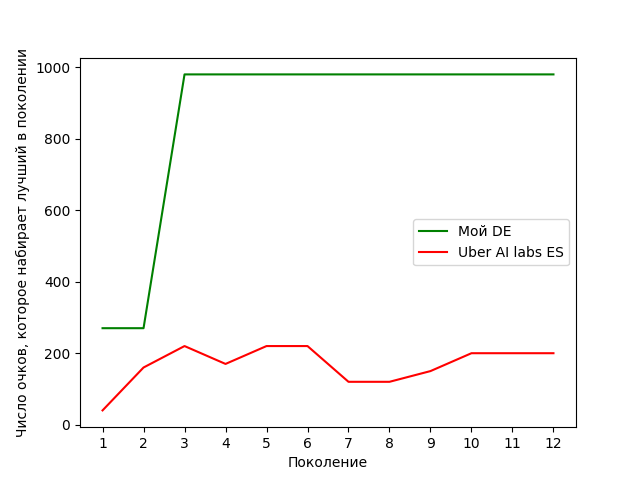
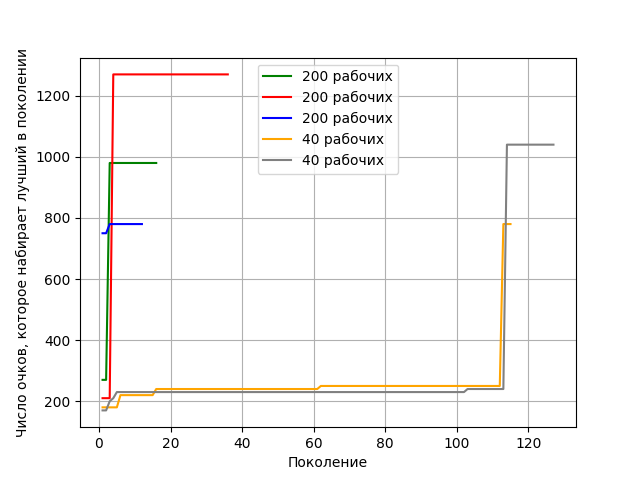
.

diff --git a/report/report.tex b/report/report.tex
@@ -12,11 +12,11 @@
 \usepackage{float}
 
 % \newcommand{\high}[1]{\texttt{#1}}
-\newcommand{\img}[2]{
+\newcommand{\img}[3]{
     \begin{figure}[H]
         \centering
-        \includegraphics[width=0.8\textwidth]{#1}
-        \caption{#2}
+        \includegraphics[width=#2\textwidth]{#1}
+        \caption{#3}
     \end{figure}
 }
 % \usepackage[fencedCode,inlineFootnotes,citations,definitionLists,hashEnumerators,smartEllipses,hybrid]{markdown}
@@ -69,38 +69,43 @@
     
     Цель настоящей работы исследовать потенциал алгоритма дифференциальной эволюции для процесса обучения нейронных сетей. 
 
-\section{Обзор других работ}
+\section{Обзор существующих работ}
     В этом разделе приведем обзор других работ, которые ведутся в данном направлении. В частности можно взглянуть на работу Uber AI labs \cite{uber}, на основе кодовой базы которой выполнена текущая работа. \\
 
-    В своей работе Uber AI labs исследует потенциал обучения нейронной сети, которая учиться играть в Atari Frostbite и пытается обучить 3-х мерную модель гуманоида ходить. Обучают они нейронную сеть с помощью различных эволюционных алгоритмов, таких как генетический 
+    В своей работе Uber AI labs исследует потенциал обучения нейронной сети, которая учиться играть в Atari Frostbite и также пытается обучить 3-х мерную модель гуманоида ходить. Для процесса обучения нейронной сети используются различные эволюционные алгоритмы. Результатом своей работы Uber AI labs представила реализацию 4-х различных эволюционных алгоритмов для решения описанных задач. Забегая вперед, скажем, что нам удастся получить результат лучше, чем у двух алгоритмов представленных в \cite{uber}. \\
+
+    В другой существующей работе \cite{de-for-cnn-design} рассматривается возможность построения сверточных нейронных сетей с помощью алгоритма дифференциальной эволюции. Авторы ставят перед собой цель исследовать потенциал алгоритма дифференциальной эволюции для автоматического построения и улучшения структуры и параметров глубоких сверточных сетей. Результатом этой работы стал гибридный алгоритм дифференциальной эволюции, который позволяет решить поставленную задачу.
 
 \section{Постановка задачи}
     Постановка задачи формулируется следующим образом: разработать алгоритм дифференциальной эволюции и попробовать обучить нейронную сеть, так чтобы она набирала как можно большее количество очков в игре Atari Frostbite.
 
     \subsection{Правила игры Atari Frostbite}
-    Нижнии $2/3$ экрана заполнены водой с четыремя рядами ледяных глыб плывущих в горизонтальном направлении. Игрок делает свои ходы прыгая с одного ряда на другой, пытаясь избежать различных противников в виде крабов и птиц. Также есть рыбы, которые дают дополнительные очки. \\
+    Нижнии $2/3$ экрана заполнены водой с четырьмя рядами ледяных глыб плывущих в горизонтальном направлении. Игрок делает свои ходы прыгая с одного ряда на другой, пытаясь избежать различных противников в виде крабов и птиц. Если игрок упадет в воду или встретит противника, то потеряет одну единицу жизни. Всего игроку изначально дается 4 единицы жизни. По достижении счетчиком жизни нуля игра считается проигранной и начинается заново.  \\
 
-    В верхней части экрана находится побережье, где игрок должен построить иглу. Каждый раз, когда игрок прыгает на глыбу, ряд, в котором находится глыба, меняет цвет с белого на голубой и иглу строится на $+1$ ледяной блок. После того, как игрок пропрыгал все ряды глыб на экране (напоминаем у нас всего 4 ряда ледяных глыб), то все глыбы обратно меняют цвет с голубого на белый и игрок может начать заново прыгать по глыбам. \\
+    В верхней части экрана находится побережье, где игрок должен построить иглу. Каждый раз, когда игрок прыгает на глыбу, ряд, в котором находится глыба, меняет цвет с белого на голубой и иглу строится на $+1$ ледяной блок. После того, как игрок пропрыгал все ряды глыб на экране (напоминаем в игре всего 4 ряда ледяных глыб), то все глыбы обратно меняют цвет с голубого на белый и игрок может начать заново прыгать по ним. \\
 
-    После того, как все 15 ледяных блоков, необходимых для построения иглу, собраны, игрок должен вернуться обратно на побережье и войти в иглу, это переведет игрока на следующий уровень. На каждом уровне враги и ледяные блоки двигаются быстрее чем на предыдущем уровне, тем самым усложняя игру. \\
+    После того, как все 15 ледяных блоков, необходимых для построения иглу, собраны, игрок должен вернуться обратно на побережье и войти в иглу, это позволит игроку перейти на следующий уровень. На каждом уровне враги и ледяные блоки двигаются быстрее чем на предыдущем уровне, тем самым усложняя игру. \\
 
-    Каждый из уровней обязан быть закончен не более чем за $45$ секунд, иначе игрок умирает от холода. Чем быстрее закончен уровень, тем больше дополнительных очков начисляется игроку.
+    Каждый из уровней обязан быть закончен не более чем за $45$ секунд, иначе теряет одну единицу жизни. Чем быстрее закончен уровень, тем больше дополнительных очков начисляется игроку. \\
+
+    Цель игры: набрать как можно большее количество очков до того, как персонаж умрет.
 
 \section{Метод решения задачи}
-    В качестве метода решения выбран алгоритм дифференциальной эволюции. Этот алгоритм принадлежит к классу стахостических алгоритмов минимизации произвольной функции, не требующий знания градиента этой функции, что делает этот алгоритм очень удобным для применения в ряде задач.
+    В качестве метода решения выбран алгоритм дифференциальной эволюции. Этот алгоритм принадлежит к классу стохастических алгоритмов минимизации произвольной функции, не требующий знания градиента этой функции, что делает этот алгоритм очень удобным для применения в ряде задач.
 
     \subsection{Алгоритм дифференциальной эволюции}
         Алгоритм дифференциальной эволюции был разработан Рэйнером Сторном и Кеннетом Прайсом, впервые опубликован ими в 1995 году \cite{DE-1995}. Из интересного также можно отметить, что этому алгоритму удалось занять 3-е место в <<First International Contest on Evolutionary Computation>> (1stICEO), который проходил в Нагое, мае 1996 \cite{DE}. \\
 
         Формально, пусть имеем $f: \mathbb{R}^{n} \to \mathbb{R}$ - функция, которую требуется минимизировать (заметим, что максимизация может быть выполнена рассмотрением функции $h = -f$). Градиент $f$ не извесен. Цель: найти решение $m$, для которого $f(m) \leq f(p)$ для любого $p$ в области определения, что означает, что $m$ является глобальным минимумом. \\
 
-        У алгоритма дифференциальной эволюции есть два настраиваемых параметра: \\ 
-        $P \in [0, 1]$ - <<вероятность скрещевания>> \\
+        Популяцией будем называть некоторое конечное множество $M=\{~x~|~x \in \mathbb{R}^n~\}$. \\
+
+        У алгоритма дифференциальной эволюции есть три настраиваемых параметра: \\ 
+        $P \in [0, 1]$ - <<вероятность скрещивания>> \\
         $F \in [0, 2]$ - некоторый весовой коэффициент \\
+        $|M|$ - число элементов в популяции \\
 
-        Популяцией будем называть некоторое конечное множество $\{~x~|~x \in \mathbb{R}^n~\}$. \\
-
-        Пусть $x \in \mathbb{R}^n$ один из кандидатов на решение в популяции. Тогда алгоритм дифференциальной эволюции будет выглядеть следующим образом \cite{params-for-de}:
+        Пусть $x \in \mathbb{R}^n$ один из кандидатов на решение в популяции. Тогда алгоритм дифференциальной эволюции будет выглядеть следующим образом:
 
         \begin{itemize}
             \item[-] Проинициализировать все $x$ случайными значениями в области поиска минимума $f$
@@ -132,13 +137,13 @@
             Такая архитектура была выбрана основываясь на \cite{uber}.
 
     \subsection{Как происходит обучение и взаимодействие алгоритма дифференциальной эволюции с нейронной сетью}
-        Так как в алгоритме дифференциальной эволюции в общем случае идет минимизация некоторой функции $f(x)$, где $x \in \mathbb{R}^n$, то надо надо выбрать функцию $f$ и установить биективное отображение между весами нейронной сети и простанством $\mathbb{R}^n$. \\
+        Так как в алгоритме дифференциальной эволюции в общем случае идет минимизация некоторой функции $f(x)$, где $x \in \mathbb{R}^n$, то надо надо выбрать функцию $f$ и установить биективное отображение между весами нейронной сети и пространством $\mathbb{R}^n$. \\
 
-        В качестве функции $f$ выбрана функция равная количеству очков, которое набирает нейронная сеть в игре Atari Frostbite за фиксированое время (если в течении этого времени нейроная сеть успела проиграть, то считаем то количество очков, которое она успела набрать до проигрыша). В нашем случае это число равно $5000$ итераций взаимодействия с библиотекой gym (именно эта библиотека используется для эмуляции игры Atari Frostbite). Это число выбрано таким образом, чтобы быть достаточно большим, чтобы количество очков, которое можно набрать не ограничевалось сверху временем, но и не таким большим, чтобы вычисление $f$ занимало слишком много времени. \\
+        В качестве функции $f$ выбрана функция равная количеству очков, которое набирает нейронная сеть в игре Atari Frostbite за фиксированное время (если в течении этого времени нейронная сеть успела проиграть, то считаем то количество очков, которое она успела набрать до проигрыша). В нашем случае это число равно $5000$ итераций взаимодействия с библиотекой gym (именно эта библиотека используется для эмуляции игры Atari Frostbite). Это число выбрано таким образом, чтобы быть достаточно большим, чтобы количество очков, которое можно набрать не ограничивалось сверху временем, но и не таким большим, чтобы вычисление $f$ занимало слишком много времени. \\
 
-        Таким образом, осталось только установить биективное соответствие между $\mathbb{R}^n$ и весами нейронной сети. Это делается тривиальным образом, просто методом упорядовачивания весов нейроной сети. Сеть имеет $n=1009058$ параметров для обучения. \\
+        Таким образом, осталось только установить биективное соответствие между $\mathbb{R}^n$ и весами нейронной сети. Это делается тривиальным образом, просто методом упорядочивания весов нейронной сети. Сеть имеет $n=1009058$ параметров для обучения. \\
 
-        В качестве значений параметров $P$, $F$ алгоритма дифференциальной эволюции были выбраны $0.9$ и $0.5$ соответственно.
+        В качестве значений параметров $P$, $F$ алгоритма дифференциальной эволюции были выбраны $0.9$ и $0.5$ соответственно. Размер популяции варьировался в разных экспериментах
 
 \section{Вычислительный эксперимент предложенного алгоритма}
     Вычислительный эксперимент проводился на платформе \href{https://cloud.google.com/}{Google Cloud}. На следующих характеристиках: \\
@@ -149,10 +154,17 @@
     Частота: 2 Ггц \\
     ОЗУ: 90 ГБ \\
 
-    Все результаты вычислительного эксперимента алгоритма дифференциальной эволюции (DE) ниже приведины в сравнении с алгоритмом~ES из работы Uber AI labs \cite{uber}.
-    \img{score_plot.png}{Зависимость количества набираемых очков от поколения}
+    После небольшого размышления стало понятно, что нейронная сеть сможет достаточно хорошо обучиться прыгать по глыбам, избегая противников и не падая в воду. Интерес представляло то, <<догадается>> ли нейронная сеть зайти в иглу, чтобы перейти на следующий уровень или она продолжит прыгать по глыбам. Но так как каждый раунд в игре не может длится более $45$ секунд, то это должно было стимулировать нейронную сеть <<обучиться>> заходить в иглу. \\
 
-    \img{time_plot.png}{Зависимость времени обучения от поколения}
+    Понять <<обучилась>> ли нейронная сеть заходить в иглу по количеству набранных ею очков довольно просто. Если число очков больше $540$, то это значит, что сети удалось <<зайти>> в иглу. Это связано с тем, что такое количество очков нельзя набрать просто прыгая по глыбам, $45$ успеют истечь раньше, а за заход в иглу как раз дается ровно $540$ очков. \\
+
+    Сначала вычислительный эксперимент проводился для количества рабочих равному $200$. Из трех вычислительных экспериментов нейронной сети удавалось найти решение, в котором она <<обучалась>> заходить в иглу, в одном из трех первых поколений популяции. Была выдвинута гипотеза, что во всех этих трех экспериментах нам просто повезло. Так как рабочих $200$ и один из них могу случайным образом попасть в правильное решение еще на самом старте обучения. \\
+
+    Таким образом после этого были проведены два эксперимента с $40$ рабочими, чтобы снизить вероятность случайного попадания в <<правильное>> решение с самых первых поколений. В этих двух экспериментах нейронная сеть, действительно, <<попала>> в правильное решение не сразу, и лишь по прошествию порядка 150 поколений нейронная сеть <<догадалась>> зайти в иглу. \\
+
+    \img{score_plot.png}{1.0}{Зависимость количества набираемых очков от поколения в 5-ти различных экспериментах}
+
+    \img{score_plot_per_time.png}{1.0}{Зависимость количества набираемых очков от времени в минутах в 5-ти различных экспериментах}
 
     Видео того, как работает обученная нейронная сеть, можно найти по адресу: \\
     \url{https://www.youtube.com/watch?v=VjWcr3XTsHU&feature=youtu.be}
@@ -166,9 +178,9 @@
 
     Основные модули и их описание:
     \begin{itemize}
-        \item \verb!es_distributed/policies.py! содержит класс \verb!Policy! и его наследника \verb!ESAtariPolicy!. В этих классах реализованы политики обсчета нейронной сети и сама структура нейронной сети
-        \item \verb!es_distributed/dist.py! содержит два класса \verb!CoolWorkerClient! и \verb!CoolMasterClient!. Это классы в которых описано взаимодействие основного процесса и процессов-рабочих. Взаимодействие сделано через пересылки сообщений по сокетам по TCP соединению. (процесс-мастер запускается по адресу \verb!127.0.0.1:9999!)
-        \item \verb!es_distributed/es.py! содержит две основные функции \verb!run_master! и \verb!run_worker!, которые выполняют процесс-мастер и процессы-рабочие соответственно.
+        \item \verb\es_distributed/policies.py\ содержит класс \verb!Policy! и его наследника \verb!ESAtariPolicy!. В этих классах реализованы политики обсчета нейронной сети и сама структура нейронной сети
+        \item \verb\es_distributed/dist.py\ содержит два класса \verb!CoolWorkerClient! и \verb!CoolMasterClient!. Это классы в которых описано взаимодействие основного процесса и процессов-рабочих. Взаимодействие сделано через пересылки сообщений по сокетам по TCP соединению. (процесс-мастер запускается по адресу \verb!127.0.0.1:9999!)
+        \item \verb\es_distributed/es.py\ содержит две основные функции \verb!run_master! и \verb!run_worker!, которые выполняют процесс-мастер и процессы-рабочие соответственно.
         \item \verb\scripts/viz.py\ визуализирует файл сохраненный на $i$-ой итерации, чтобы можно было вживую увидеть то, как играет лучший индивид из поколения.
     \end{itemize}
 
@@ -177,9 +189,9 @@
     Далее мастер итерация за итерацией будет выполнять \verb!es_distributed.es.run_master!, где происходит алгоритм дифференциальной эволюции. Рабочим же распределяются задачи по подсчету количества очков, которые набирает отдельно взятый индивид из популяции. \\
 
     Диаграмма UML, описанной реализации, выглядит следующим образом:
-    \img{uml.png}{UML диаграмма реализации}
+    \img{uml.png}{0.8}{UML диаграмма реализации}
 
-    Мастер использует \verb!ESAtariPolicy! для того, чтобы в него присваивать лучшего на данной итерации индивида из популяции и потом на каждой итерации сохранять его веса в отдельный файл. Этот файл можно позже запустить в режими визуализации, чтобы увидеть, как обученная нейронная сеть играет вживую.
+    Мастер использует \verb!ESAtariPolicy! для того, чтобы в него присваивать лучшего на данной итерации индивида из популяции и потом на каждой итерации сохранять его веса в отдельный файл. Этот файл можно позже запустить в режиме визуализации, чтобы увидеть, как обученная нейронная сеть играет вживую.
 
     \subsection{Установка и запуск}
     После того, как проект склонирован с помощью git: \\
@@ -204,9 +216,13 @@
     \verb!python -m scripts.viz 'FrostbiteNoFrameskip-v4' <YOUR_H5_FILE>!
 
 \section{Заключение}
-    Как можно заметить алгоритм дифференциальной эволюции неплохо показал себя в решении поставленной задачи. Он оказался точно лучше алгоритма ES в \cite{uber}. Тем не менее пока не ясен его потенциал при увеличении числа поколений. \\
+    К сожалению, не до конца понятен потенциал алгоритма дифференциальной эволюции в применении к обучению нейронных сетей. Этот алгоритм является алгоритмом глобальной минимизации функции, и этому алгоритму действительно удалось выйти из локального минимума в экспериментах с количеством рабочих равному $40$, несмотря на то, что популяция на протяжении 8.3 часов находилась локальном минимуме. \\
 
-    Также в качестве направления дальнейшей работы интересно было исследовать эффективность обучения при различных выборах значений параметров алгоритма дифференциальной эволюции $P$ и $F$. Таким образом в \cite{DE} утверждается, что выбор параметра $F$ для каждого поколения случайным образом значительно улучшает сходимость алгоритма.
+    Но удручающим является то, что в эксперименте с 200 рабочими, алгоритм проработав более 29 часов, так и не смог набрать большее количество очков, чем то, которое он набрал за первые полчаса эксперимента. \\
+
+    Тем не менее точно можно утверждать, что получившийся алгоритм оказался лучше алгоритмов Evolution Strategies (ES) и Novelty Search - Evolution Strategies (NS-ES) в работе \cite{uber}, так как оба этих алгоритма ES и NS-ES так и не смогли <<догадаться>> войти в иглу. \\
+
+    В качестве дальнейшего направления было бы интересно исследовать эффективность обучения при различных выборах значений параметров алгоритма дифференциальной эволюции $P$ и $F$. Таким образом в \cite{DE} утверждается, что выбор параметра $F$ для каждого поколения случайным образом значительно улучшает сходимость алгоритма.
 
 \newpage
 \addcontentsline{toc}{section}{Список литературы}
@@ -220,12 +236,6 @@
     \emph{Rainer Storn, Kenneth Price}. Differential Evolution - a simple and efficient adaptive scheme for global optimization over continuous spaces \\
     \url{http://web.archive.org/web/20050424071310/http://www.icsi.berkeley.edu/techreports/1995.abstracts/tr-95-012.html}
 
-    \bibitem{ConvolutionInetGuide}
-    A Comprehensive Guide to Convolutional Neural Networks — the ELI5 way
-
-    \bibitem{LiuLiu}
-    Liu G. R., Liu M. B. Smoothed particle hydrodynamics: a meshfree particle method. --- Singapore : World Scientific Publishing. --- 2003. --- 449 p.
-
     \bibitem{DE}
     Differential Evolution (DE) for Continuous Function Optimization (an algorithm by Kenneth Price and Rainer Storn) \\
     \url{http://www1.icsi.berkeley.edu/\%7Estorn/code.html}
@@ -234,9 +244,9 @@
     \emph{Magnus Erik Hvass Pedersen}. Good Parameters for Differential Evolution \\
     \url{https://pdfs.semanticscholar.org/48aa/36e1496c56904f9f6dfc15323e0c45e34a4c.pdf}
 
-    % \bibitem{batch}
-    % \emph{Sergey Ioffe, Christian Szegedy}. Batch Normalization: Accelerating Deep Network Training by Reducing Internal Covariate Shift \\
-    % \url{https://arxiv.org/abs/1502.03167}
+    \bibitem{de-for-cnn-design}
+    \emph{Bin Wang, Yanan Sun, Bing Xue, Mengjie Zhang}. A Hybrid Differential Evolution Approach to Designing Deep Convolutional Neural Networks for Image Classification \\
+    \url{https://arxiv.org/abs/1808.06661}
 
 \end{thebibliography}
 

diff --git a/report/plots.py b/report/plots.py
@@ -4,46 +4,112 @@ import numpy as np
 ############
 ### Time ###
 ############
-y = [10.8, 23.6, 46.1, 71.5, 100.3, 114.0, 127.8, 157.5, 188.3, 218.3, 245.0, 268.3]
-x = np.arange(len(y) + 1)[1:]
-plt.bar(x, y, color='red')
-for i in range(len(x)):
-    plt.text(i + 1 - 0.21*len(str(y[i]))/2, y[i] + 0.5, str(y[i]))
+# y = [10.8, 23.6, 46.1, 71.5, 100.3, 114.0, 127.8, 157.5, 188.3, 218.3, 245.0, 268.3]
+# x = np.arange(len(y) + 1)[1:]
+# plt.bar(x, y, color='red')
+# for i in range(len(x)):
+#     plt.text(i + 1 - 0.21*len(str(y[i]))/2, y[i] + 0.5, str(y[i]))
 
-y = [8.1, 14, 21.3, 30, 40.2, 52.2, 65.7, 80.5, 97.5, 116.3, 137.7, 165.7]
-x = np.arange(len(y) + 1)[1:]
-plt.bar(x, y, color='green')
-for i in range(len(x)):
-    if i == 0:
-        plt.text(i + 1 - 0.21*len(str(y[i]))/2, y[i] - 6, str(y[i]))
-        continue
-    plt.text(i + 1 - 0.21*len(str(y[i]))/2, y[i] + 0.5, str(y[i]))
+# y = [8.1, 14, 21.3, 30, 40.2, 52.2, 65.7, 80.5, 97.5, 116.3, 137.7, 165.7]
+# x = np.arange(len(y) + 1)[1:]
+# plt.bar(x, y, color='green')
+# for i in range(len(x)):
+#     if i == 0:
+#         plt.text(i + 1 - 0.21*len(str(y[i]))/2, y[i] - 6, str(y[i]))
+#         continue
+#     plt.text(i + 1 - 0.21*len(str(y[i]))/2, y[i] + 0.5, str(y[i]))
 
-plt.legend(["Uber AI labs ES", "Мой DE"])
-plt.xticks(x, x)
-plt.ylabel("Время в минутах с начала, до момента,\n когда закончился расчет i-ого поколения")
-plt.xlabel("Поколение")
-plt.savefig('my_time_plot.png')
+# plt.legend(["Uber AI labs ES", "Мой DE"])
+# plt.xticks(x, x)
+# plt.ylabel("Время в минутах с начала, до момента,\n когда закончился расчет i-ого поколения")
+# plt.xlabel("Поколение")
+# plt.savefig('my_time_plot.png')
 
-plt.savefig('time_plot.png')
-plt.close()
+# plt.savefig('time_plot.png')
+# plt.close()
 
 ##############
 ### Scores ###
 ##############
-y = [270, 270, 980, 980, 980, 980, 980, 980, 980, 980, 980, 980]
+# y = [270, 270, 980, 980, 980, 980, 980, 980, 980, 980, 980, 980]
+# x = np.arange(len(y) + 1)[1:]
+# plt.plot(x, y, color='green')
+
+# y = [40, 160, 220, 170, 220, 220, 120, 120, 150, 200, 200, 200]
+# plt.plot(x, y, color='red')
+
+# plt.legend(["Мой DE", "Uber AI labs ES"])
+
+# plt.xticks(x, x)
+# plt.ylabel("Число очков, которое набирает лучший в поколении")
+# plt.xlabel("Поколение")
+# plt.savefig('score_plot.png')
+# plt.close()
+
+
+###################
+### Scores plot ###
+###################
+# plt.figure(figsize=(10,8))
+y = [270, 270, 980, 980, 980, 980, 980, 980, 980, 980, 980, 980, 980, 980, 980, 980]
 x = np.arange(len(y) + 1)[1:]
-plt.plot(x, y, color='green')
+plt.plot(x, y, color='green', label='200 рабочих')
 
-y = [40, 160, 220, 170, 220, 220, 120, 120, 150, 200, 200, 200]
-plt.plot(x, y, color='red')
+y = [210.0, 210.0, 210.0, 1270.0, 1270.0, 1270.0, 1270.0, 1270.0, 1270.0, 1270.0, 1270.0, 1270.0, 1270.0, 1270.0, 1270.0, 1270.0, 1270.0, 1270.0, 1270.0, 1270.0, 1270.0, 1270.0, 1270.0, 1270.0, 1270.0, 1270.0, 1270.0, 1270.0, 1270.0, 1270.0, 1270.0, 1270.0, 1270.0, 1270.0, 1270.0, 1270.0]
+x = np.arange(len(y) + 1)[1:]
+plt.plot(x, y, color='red', label='200 рабочих')
 
-plt.legend(["Мой DE", "Uber AI labs ES"])
+y = [750.0, 750.0, 780.0, 780.0, 780.0, 780.0, 780.0, 780.0, 780.0, 780.0, 780.0, 780.0]
+x = np.arange(len(y) + 1)[1:]
+plt.plot(x, y, color='blue', label='200 рабочих')
 
-plt.xticks(x, x)
+y = [180, 180, 180, 180, 180, 220, 220, 220, 220, 220, 220, 220, 220, 220, 220, 240, 240, 240, 240, 240, 240, 240, 240, 240, 240, 240, 240, 240, 240, 240, 240, 240, 240, 240, 240, 240, 240, 240, 240, 240, 240, 240, 240, 240, 240, 240, 240, 240, 240, 240, 240, 240, 240, 240, 240, 240, 240, 240, 240, 240, 240, 250, 250, 250, 250, 250, 250, 250, 250, 250, 250, 250, 250, 250, 250, 250, 250, 250, 250, 250, 250, 250, 250, 250, 250, 250, 250, 250, 250, 250, 250, 250, 250, 250, 250, 250, 250, 250, 250, 250, 250, 250, 250, 250, 250, 250, 250, 250, 250, 250, 250, 250, 780, 780, 780]
+x = np.arange(len(y) + 1)[1:]
+plt.plot(x, y, color='orange', label='40 рабочих')
+
+y = [170.0, 170.0, 200.0, 210.0, 230.0, 230.0, 230.0, 230.0, 230.0, 230.0, 230.0, 230.0, 230.0, 230.0, 230.0, 230.0, 230.0, 230.0, 230.0, 230.0, 230.0, 230.0, 230.0, 230.0, 230.0, 230.0, 230.0, 230.0, 230.0, 230.0, 230.0, 230.0, 230.0, 230.0, 230.0, 230.0, 230.0, 230.0, 230.0, 230.0, 230.0, 230.0, 230.0, 230.0, 230.0, 230.0, 230.0, 230.0, 230.0, 230.0, 230.0, 230.0, 230.0, 230.0, 230.0, 230.0, 230.0, 230.0, 230.0, 230.0, 230.0, 230.0, 230.0, 230.0, 230.0, 230.0, 230.0, 230.0, 230.0, 230.0, 230.0, 230.0, 230.0, 230.0, 230.0, 230.0, 230.0, 230.0, 230.0, 230.0, 230.0, 230.0, 230.0, 230.0, 230.0, 230.0, 230.0, 230.0, 230.0, 230.0, 230.0, 230.0, 230.0, 230.0, 230.0, 230.0, 230.0, 230.0, 230.0, 230.0, 230.0, 230.0, 240.0, 240.0, 240.0, 240.0, 240.0, 240.0, 240.0, 240.0, 240.0, 240.0, 240.0, 1040.0, 1040.0, 1040.0, 1040.0, 1040.0, 1040.0, 1040.0, 1040.0, 1040.0, 1040.0, 1040.0, 1040.0, 1040.0, 1040.0]
+x = np.arange(len(y) + 1)[1:]
+plt.plot(x, y, color='gray', label='40 рабочих')
+
+plt.grid()
+
+plt.legend()
+
 plt.ylabel("Число очков, которое набирает лучший в поколении")
 plt.xlabel("Поколение")
 plt.savefig('score_plot.png')
 plt.close()
 
 
+###########################
+### Scores plot on time ###
+###########################
+# plt.figure(figsize=(10,8))
+y = [270, 270, 980, 980, 980, 980, 980, 980, 980, 980, 980, 980, 980, 980, 980, 980]
+x = list(map(lambda x: x/60, [487.0, 840.0, 1280.0, 1800.0, 2410.0, 3130.0, 3940.0, 4830.0, 5850.0, 6980.0, 8260.0, 9940.0, 11600.0, 13300.0, 15600.0, 17800.0]))
+plt.plot(x, y, color='green', label='200 рабочих')
+
+y = [210.0, 210.0, 210.0, 1270.0, 1270.0, 1270.0, 1270.0, 1270.0, 1270.0, 1270.0, 1270.0, 1270.0, 1270.0, 1270.0, 1270.0, 1270.0, 1270.0, 1270.0, 1270.0, 1270.0, 1270.0, 1270.0, 1270.0, 1270.0, 1270.0, 1270.0, 1270.0, 1270.0, 1270.0, 1270.0, 1270.0, 1270.0, 1270.0, 1270.0, 1270.0, 1270.0]
+x = list(map(lambda x: x/60, [487.0, 859.0, 1350.0, 1900.0, 2540.0, 3300.0, 4120.0, 5000.0, 5990.0, 7090.0, 8310.0, 9650.0, 11200.0, 12800.0, 14700.0, 16700.0, 18900.0, 21200.0, 23700.0, 26500.0, 29400.0, 32500.0, 35700.0, 39400.0, 43400.0, 47600.0, 52000.0, 56700.0, 61700.0, 66800.0, 72300.0, 78200.0, 84300.0, 90600.0, 97000.0, 104000.0]))
+plt.plot(x, y, color='red', label='200 рабочих')
+
+y = [750.0, 750.0, 780.0, 780.0, 780.0, 780.0, 780.0, 780.0, 780.0, 780.0, 780.0, 780.0]
+x = list(map(lambda x: x/60, [755.0, 1250.0, 1780.0, 2390.0, 3040.0, 3750.0, 4530.0, 5350.0, 6220.0, 7170.0, 8180.0, 9240.0]))
+plt.plot(x, y, color='blue', label='200 рабочих')
+
+y = [180, 180, 180, 180, 180, 220, 220, 220, 220, 220, 220, 220, 220, 220, 220, 240, 240, 240, 240, 240, 240, 240, 240, 240, 240, 240, 240, 240, 240, 240, 240, 240, 240, 240, 240, 240, 240, 240, 240, 240, 240, 240, 240, 240, 240, 240, 240, 240, 240, 240, 240, 240, 240, 240, 240, 240, 240, 240, 240, 240, 240, 250, 250, 250, 250, 250, 250, 250, 250, 250, 250, 250, 250, 250, 250, 250, 250, 250, 250, 250, 250, 250, 250, 250, 250, 250, 250, 250, 250, 250, 250, 250, 250, 250, 250, 250, 250, 250, 250, 250, 250, 250, 250, 250, 250, 250, 250, 250, 250, 250, 250, 250, 780, 780, 780]
+x = list(map(lambda x: x/60, [228.0, 355.0, 472.0, 588.0, 709.0, 830.0, 964.0, 1090.0, 1230.0, 1370.0, 1520.0, 1670.0, 1810.0, 1970.0, 2130.0, 2280.0, 2430.0, 2580.0, 2740.0, 2910.0, 3080.0, 3250.0, 3410.0, 3590.0, 3760.0, 3930.0, 4120.0, 4300.0, 4490.0, 4680.0, 4860.0, 5060.0, 5240.0, 5450.0, 5650.0, 5860.0, 6060.0, 6280.0, 6480.0, 6700.0, 6910.0, 7120.0, 7330.0, 7560.0, 7780.0, 8000.0, 8240.0, 8480.0, 8720.0, 8950.0, 9200.0, 9450.0, 9710.0, 9950.0, 10200.0, 10500.0, 10700.0, 11000.0, 11300.0, 11500.0, 11800.0, 12100.0, 12300.0, 12600.0, 12900.0, 13200.0, 13500.0, 13800.0, 14100.0, 14400.0, 14700.0, 15000.0, 15300.0, 15600.0, 15900.0, 16200.0, 16500.0, 16800.0, 17200.0, 17500.0, 17800.0, 18200.0, 18500.0, 18800.0, 19200.0, 19500.0, 19900.0, 20200.0, 20600.0, 20900.0, 21200.0, 21600.0, 22000.0, 22300.0, 22700.0, 23100.0, 23500.0, 23800.0, 24200.0, 24600.0, 25000.0, 25400.0, 25800.0, 26200.0, 26600.0, 27000.0, 27300.0, 27700.0, 28100.0, 28600.0, 29000.0, 29400.0, 29800.0, 30200.0, 30600.0]))
+plt.plot(x, y, color='orange', label='40 рабочих')
+
+y = [170.0, 170.0, 200.0, 210.0, 230.0, 230.0, 230.0, 230.0, 230.0, 230.0, 230.0, 230.0, 230.0, 230.0, 230.0, 230.0, 230.0, 230.0, 230.0, 230.0, 230.0, 230.0, 230.0, 230.0, 230.0, 230.0, 230.0, 230.0, 230.0, 230.0, 230.0, 230.0, 230.0, 230.0, 230.0, 230.0, 230.0, 230.0, 230.0, 230.0, 230.0, 230.0, 230.0, 230.0, 230.0, 230.0, 230.0, 230.0, 230.0, 230.0, 230.0, 230.0, 230.0, 230.0, 230.0, 230.0, 230.0, 230.0, 230.0, 230.0, 230.0, 230.0, 230.0, 230.0, 230.0, 230.0, 230.0, 230.0, 230.0, 230.0, 230.0, 230.0, 230.0, 230.0, 230.0, 230.0, 230.0, 230.0, 230.0, 230.0, 230.0, 230.0, 230.0, 230.0, 230.0, 230.0, 230.0, 230.0, 230.0, 230.0, 230.0, 230.0, 230.0, 230.0, 230.0, 230.0, 230.0, 230.0, 230.0, 230.0, 230.0, 230.0, 240.0, 240.0, 240.0, 240.0, 240.0, 240.0, 240.0, 240.0, 240.0, 240.0, 240.0, 1040.0, 1040.0, 1040.0, 1040.0, 1040.0, 1040.0, 1040.0, 1040.0, 1040.0, 1040.0, 1040.0, 1040.0, 1040.0, 1040.0]
+x = list(map(lambda x: x/60, [105.0, 159.0, 212.0, 266.0, 319.0, 382.0, 442.0, 498.0, 564.0, 635.0, 699.0, 767.0, 5240.0, 5360.0, 5490.0, 5610.0, 5750.0, 5880.0, 6010.0, 6150.0, 6290.0, 6420.0, 6560.0, 6690.0, 6840.0, 6970.0, 7120.0, 7260.0, 7410.0, 7540.0, 7690.0, 7840.0, 7990.0, 8150.0, 8300.0, 8450.0, 8610.0, 8770.0, 8930.0, 9100.0, 9260.0, 9420.0, 9600.0, 9760.0, 9920.0, 10100.0, 10300.0, 10400.0, 10600.0, 10800.0, 10900.0, 11100.0, 11300.0, 11500.0, 11700.0, 11800.0, 12000.0, 12200.0, 12400.0, 12600.0, 12800.0, 13000.0, 13200.0, 13400.0, 13600.0, 13800.0, 14000.0, 14200.0, 14400.0, 14600.0, 14800.0, 15000.0, 15200.0, 15400.0, 15600.0, 15800.0, 16000.0, 16200.0, 16400.0, 16700.0, 16900.0, 17100.0, 17300.0, 17500.0, 17800.0, 18000.0, 18200.0, 18400.0, 18700.0, 18900.0, 19100.0, 19400.0, 19600.0, 19800.0, 20100.0, 20300.0, 20500.0, 20800.0, 21000.0, 21300.0, 21500.0, 21700.0, 22000.0, 22200.0, 22500.0, 22700.0, 23000.0, 23200.0, 23500.0, 23800.0, 24000.0, 24300.0, 24500.0, 24800.0, 25100.0, 25300.0, 25600.0, 25900.0, 26100.0, 26400.0, 26700.0, 26900.0, 27200.0, 27500.0, 27800.0, 28100.0, 28300.0]
+plt.plot(x, y, color='gray', label='40 рабочих')
+
+plt.grid()
+
+plt.legend()
+
+plt.ylabel("Число очков, которое набирает лучший в поколении")
+plt.xlabel("Время в минутах")
+plt.savefig('score_plot_per_time.png')
+plt.close()
